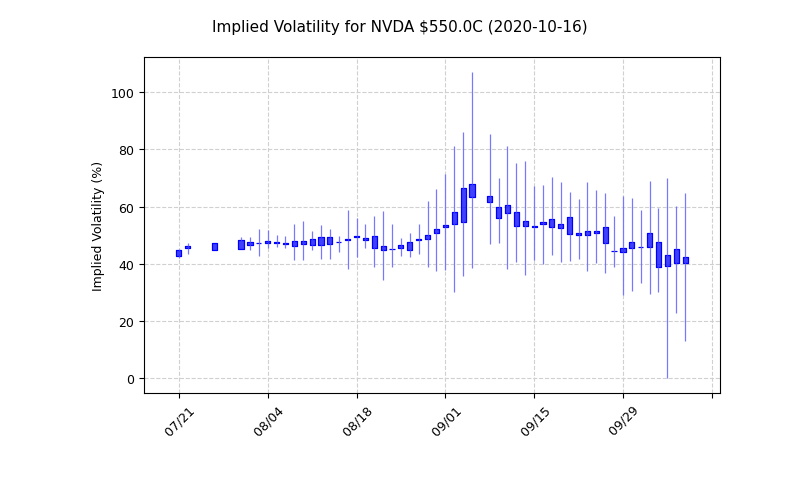
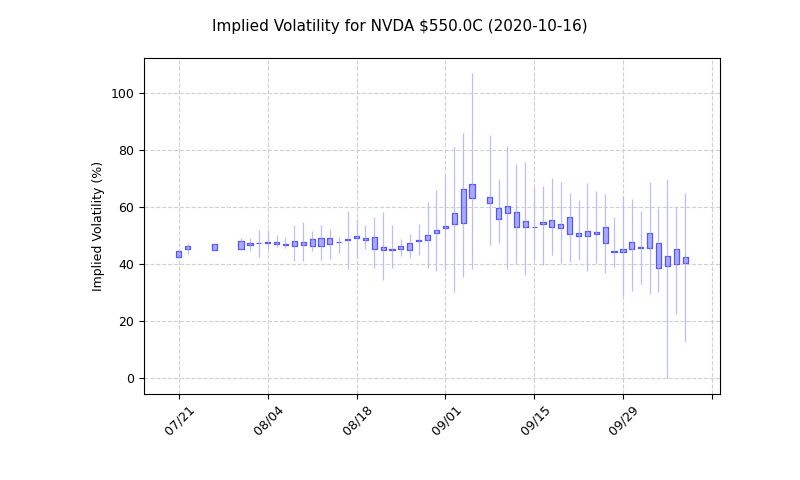
Cleaned up the figures a bit and updated the README graphics.

diff --git a/tp_plot_manager.py b/tp_plot_manager.py
@@ -138,9 +138,8 @@ def plot_history(data, underlying_data, data_title, settings):
         
         s = volatility_style(settings)
         kwargs = dict(type='candle',volume=False)
-        #kwargs = dict(type='ohlc_bars',volume=False)  
         mpf.plot(df_iv, **kwargs, style=s, 
-                #mav=3,
+                mav=2,
                 title=dict(title="\n\nImplied Volatility for " + data_title, weight='regular', size=11),               
                 datetime_format=' %m/%d',
                 tight_layout=settings['tight_layout'],
@@ -256,7 +255,7 @@ def plot_timesales(data, underlying_data, data_title, settings):
         s = volatility_style(settings)
         kwargs = dict(type='candle',volume=False)  
         mpf.plot(df_iv, **kwargs, style=s, 
-                #mav=3,
+                mav=5,
                 title=dict(title="\n\nImplied Volatility for " + data_title, weight='regular', size=11),               
                 datetime_format=' %m/%d %H:%M',
                 tight_layout=settings['tight_layout'],
@@ -413,14 +412,14 @@ def standard_style(settings):
 # https://github.com/matplotlib/mplfinance/tree/6cffdf1df8de3f3a7e8095ead68be00161688f2b/src/mplfinance/_styledata
 def volatility_style(settings):
     return mpf.make_mpf_style(base_mpf_style='yahoo',
-                              marketcolors = {'candle': {'up': 'b', 'down': 'b'},
-                                              'edge': {'up': 'b', 'down': 'b'},
-                                              'wick': {'up': '#7777ff', 'down': '#7777ff'},
-                                              'ohlc': {'up': 'b', 'down': 'b'},
+                              marketcolors = {'candle': {'up': '#5555ff', 'down': '#5555ff'},
+                                              'edge': {'up': '#5555ff', 'down': '#5555ff'},
+                                              'wick': {'up': '#bbbbff', 'down': '#bbbbff'},
+                                              'ohlc': {'up': '#5555ff', 'down': '#5555ff'},
                                               'volume': {'up': '#1f77b4', 'down': '#1f77b4'},
                                               'vcedge': {'up': '#1f77b4', 'down': '#1f77b4'},
                                               'vcdopcod': False,
-                                              'alpha': 0.75
+                                              'alpha': 0.50
                                               },
                               rc={'font.size':9,
                                   'font.weight':'light',

diff --git a/README.md b/README.md
@@ -61,18 +61,22 @@ Enter: 2019-01-01
 
 The program should download all the data and then display a candlestick chart of the daily trade data. Something along the lines of the figures below (the candlestick binning can be changed in the settings inside the driver file):
 
-12-Months of SPY 325C (7D binning):
+SPY Intraday: 
 
-![7-Months of SPY 325C](./screens/spy-history.png)
+![SPY Intraday](./screens/spy-trade.png)
 
-MSFT Intraday: 
+SPY Implied Volatility: 
 
-![MSFT Intraday](./screens/msft-trade.png)
+![SPY Volatility](./screens/spy-volatility.png)
 
-MSFT Implied Volatility: 
 
-![MSFT Volatility](./screens/msft-volatility.png)
+4-Months of QQQ 275C (1D binning):
 
+![4-Months of QQQ 275C](./screens/qqq-trade.png)
+
+QQQ Implied Volatility:
+
+![QQQ 275C Implied Volatility](./screens/qqq-volatility.png)
 
 
 Example Data Output (Daily data):
@@ -106,6 +110,8 @@ Date
 2020-10-08  22.00  22.15  14.00  15.57    1524   40.36
 
 ```
+
+* Note: the Implied Volatility data that is printed is the 'close' data point. See the note below. 
 
 ### Implied Volatility
 
